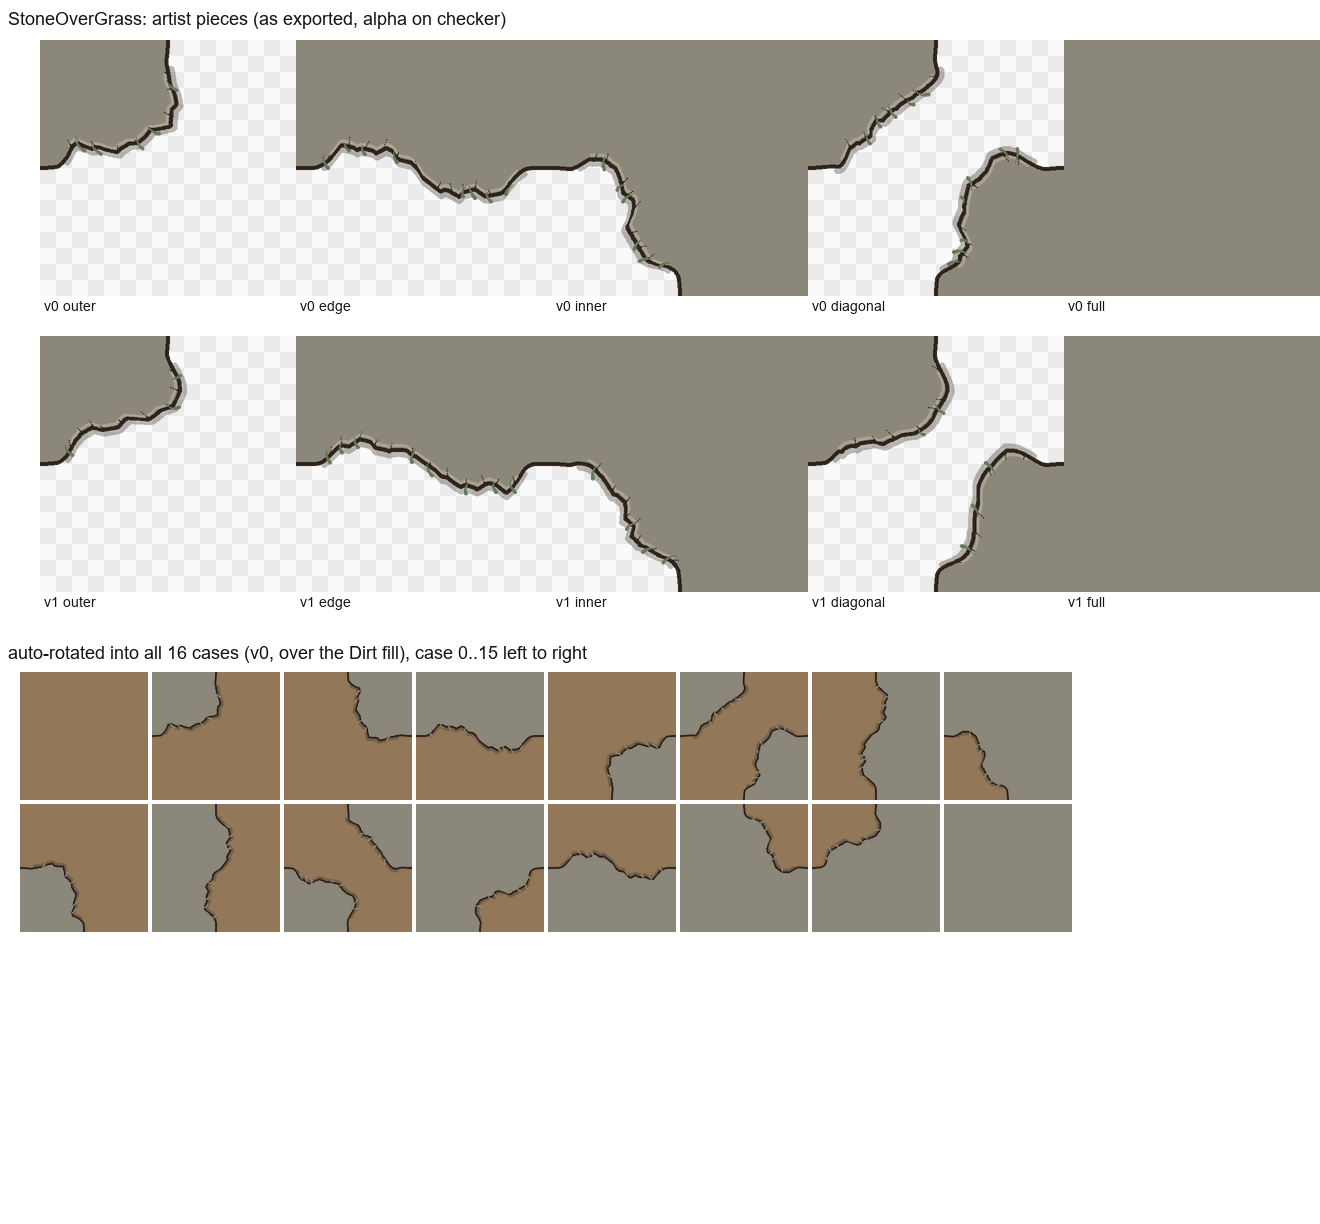
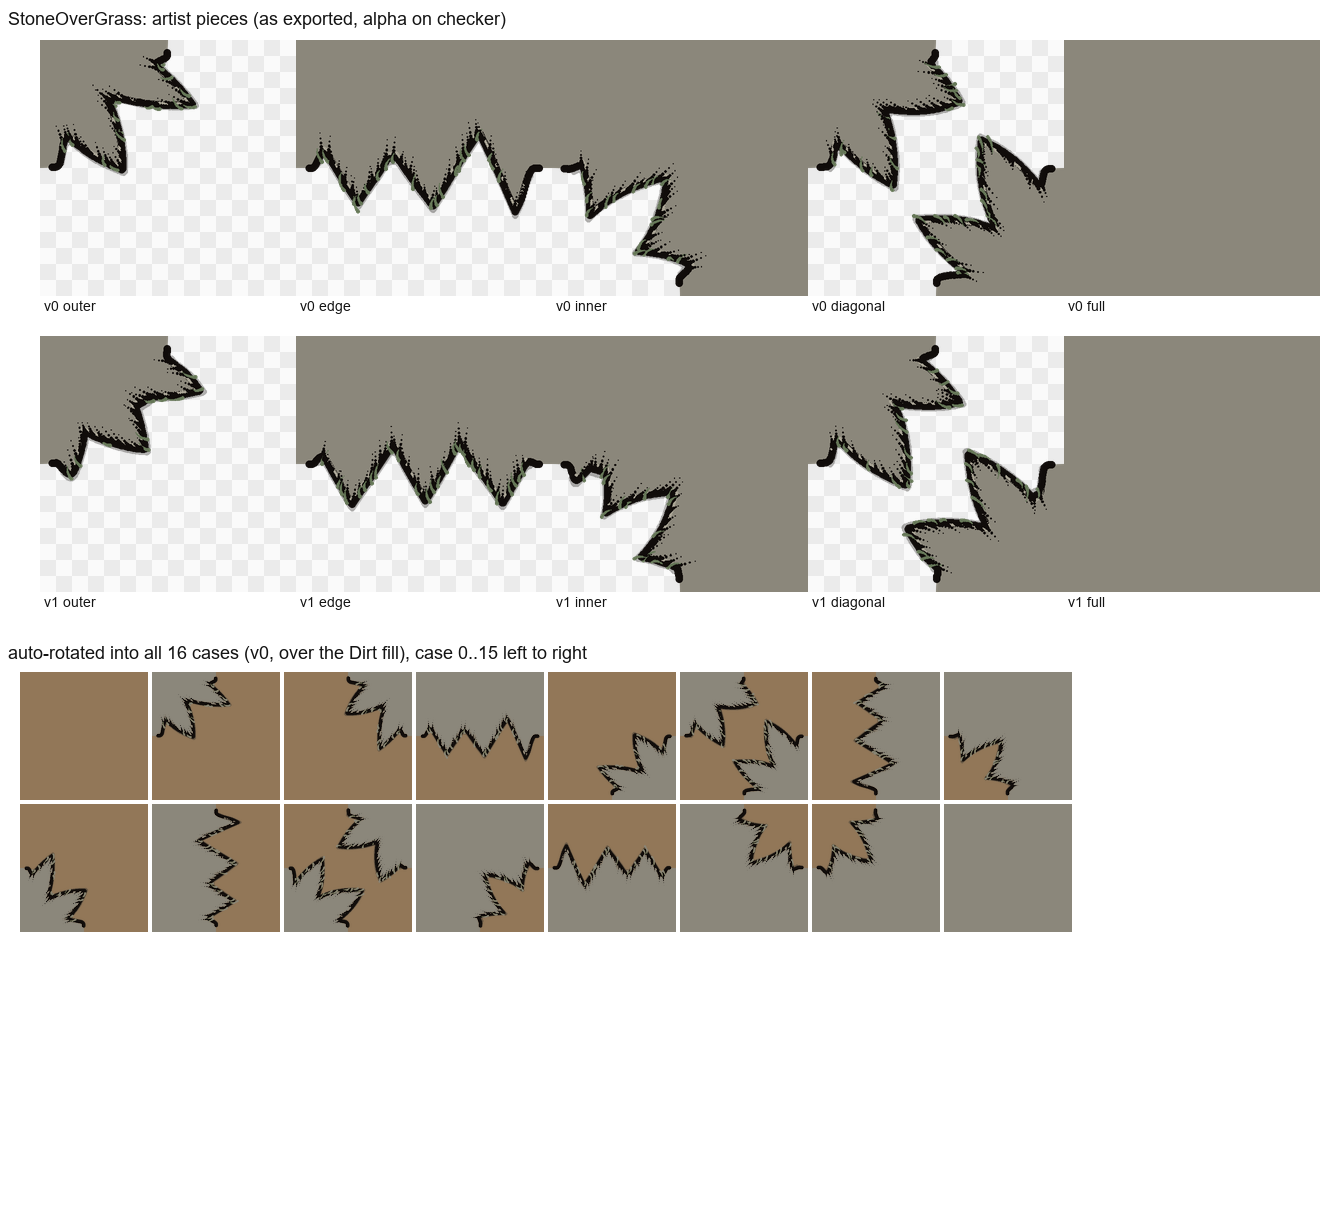
Terrain Edge Tiles v2 art: 2-3 big lobes per side, heavy ink outline + outward flicks (ink coverage ~4% per set, forest fixed); scatter places billboard cards facing -Z
Claude-Session: https://claude.ai/code/session_013ze2L3WACF4XQEpyQUBhmc

diff --git a/Tools/terrain_edge_mock/edge_tile_mock.py b/Tools/terrain_edge_mock/edge_tile_mock.py
@@ -23,7 +23,7 @@ CANVAS = CELL * SUPERSAMPLE
 CROSSING_STRAIGHT_PIXELS = 16
 SAFE_MARGIN = 8
 PIXELS_PER_METRE = 64
-INK = (46, 35, 27)
+INK = (16, 12, 10)
 
 DIRT, GRASS, FOREST, STONE = 0, 1, 2, 3
 BIOME_NAMES = {DIRT: "Dirt", GRASS: "Grass", FOREST: "Forest", STONE: "Stone"}
@@ -120,8 +120,8 @@ def segment_samples(segment, step):
 
 
 def crossing_window(side_distance):
-    """0 within the straight 16 px next to a side, 1 from 48 px in: the edge may only wobble where this is > 0."""
-    normalised = np.clip((np.asarray(side_distance) - CROSSING_STRAIGHT_PIXELS) / 32.0, 0.0, 1.0)
+    """0 within the straight 16 px next to a side, 1 from 32 px in: the edge may only wobble where this is > 0."""
+    normalised = np.clip((np.asarray(side_distance) - CROSSING_STRAIGHT_PIXELS) / 16.0, 0.0, 1.0)
     return normalised * normalised * (3.0 - 2.0 * normalised)
 
 
@@ -162,12 +162,12 @@ FILL_COLOURS = {
     STONE: [(139, 135, 123), (150, 146, 133), (126, 122, 111)],
 }
 
-TURF_STYLE = dict(clump_width=(8.0, 18.0), clump_height=(10.0, 32.0), clump_spacing=(14.0, 32.0),
-                  clump_baseline=14.0, ripple=1.5, bend=30.0, chipped=False)
-FOREST_STYLE = dict(clump_width=(10.0, 20.0), clump_height=(12.0, 28.0), clump_spacing=(18.0, 34.0),
-                    clump_baseline=14.0, ripple=1.5, bend=32.0, chipped=False)
-STONE_STYLE = dict(clump_width=(12.0, 26.0), clump_height=(5.0, 14.0), clump_spacing=(14.0, 30.0),
-                   clump_baseline=7.0, ripple=0.4, bend=24.0, chipped=True)
+TURF_STYLE = dict(clump_width=(14.0, 22.0), clump_height=(60.0, 80.0), clump_spacing=(60.0, 84.0),
+                  clump_baseline=30.0, ripple=1.0, bend=6.0, chipped=False)
+FOREST_STYLE = dict(clump_width=(14.0, 22.0), clump_height=(60.0, 80.0), clump_spacing=(60.0, 84.0),
+                    clump_baseline=30.0, ripple=1.0, bend=6.0, chipped=False)
+STONE_STYLE = dict(clump_width=(30.0, 46.0), clump_height=(56.0, 76.0), clump_spacing=(60.0, 84.0),
+                   clump_baseline=28.0, ripple=0.4, bend=6.0, chipped=True)
 LIP_STYLE = dict(clump_width=(6.0, 13.0), clump_height=(5.0, 15.0), clump_spacing=(10.0, 22.0),
                  clump_baseline=6.0, ripple=1.0, bend=4.0, chipped=False)
 
@@ -236,11 +236,33 @@ def draw_piece_strokes(stroke_layer, piece_name, profiles, set_definition, rando
                 shadow_layer = Image.new("RGBA", stroke_layer.size, (0, 0, 0, 0))
                 draw_tapered(ImageDraw.Draw(shadow_layer), shadow_band, 6.0, 6.0, INK + (80,))
                 stroke_layer.alpha_composite(shadow_layer)
-            outline = [(point[0], point[1]) for point in boundary_points]
-            draw_tapered(draw, outline, 3.4, 3.4, INK)
+            outline = [(point[0], point[1]) for point in boundary_points if point[4] > 12.0]
+            draw_tapered(draw, outline, 7.0, 7.0, INK)
             highlight = [(point[0] - point[2] * 4.5, point[1] - point[3] * 4.5) for point in boundary_points
                          if float(crossing_window(point[4])) > 0.6]
             draw_tapered(draw, highlight, 2.4, 2.4, shade(upper_colours[1], 1.12)) if highlight else None
+
+        if stroke_kind in ("turf", "forest"):
+            run_start = None
+            run_length = 0
+            for point_index, boundary_point in enumerate(boundary_points):
+                inked = float(crossing_window(boundary_point[4])) > 0.15 and boundary_point[4] > 10.0
+                if inked and run_start is None:
+                    run_start = point_index
+                    run_length = int(random_generator.uniform(40, 110))
+                if run_start is not None and (not inked or point_index - run_start >= run_length):
+                    run_points = [(point[0], point[1]) for point in boundary_points[run_start:point_index]]
+                    if len(run_points) > 2 and inside_safe_margin(run_points):
+                        draw_tapered(draw, run_points, 6.5 if stroke_kind == "forest" else 5.0, 3.2 if stroke_kind == "forest" else 2.6, INK)
+                    run_start = None if not inked else point_index + int(random_generator.uniform(5, 12))
+                    if run_start is not None and run_start >= len(boundary_points):
+                        run_start = None
+                    if run_start is not None:
+                        run_length = int(random_generator.uniform(40, 110))
+            if run_start is not None:
+                run_points = [(point[0], point[1]) for point in boundary_points[run_start:]]
+                if len(run_points) > 2 and inside_safe_margin(run_points):
+                    draw_tapered(draw, run_points, 6.5 if stroke_kind == "forest" else 5.0, 3.2 if stroke_kind == "forest" else 2.6, INK)
 
         position = random_generator.uniform(4, 12)
         while position < len(boundary_points):
@@ -251,18 +273,18 @@ def draw_piece_strokes(stroke_layer, piece_name, profiles, set_definition, rando
                 continue
             if stroke_kind in ("turf", "forest"):
                 lobe_height = float(profile.evaluate(boundary_points_parameter[int(position)]))
-                if lobe_height < 2.0 and random_generator.random() < 0.75:
+                if lobe_height < 6.0 and random_generator.random() < (0.5 if stroke_kind == "forest" else 0.8):
                     position += random_generator.uniform(3, 6)
                     continue
                 root_depth = random_generator.uniform(3, 9)
-                length = random_generator.uniform(9, 24) if stroke_kind == "turf" else random_generator.uniform(10, 26)
+                length = random_generator.uniform(14, 30)
                 curl = (1 if math.sin(boundary_points_parameter[int(position)] / 23.0) > 0 else -1) * random_generator.uniform(4, 13)
                 root = (point_x - normal_x * root_depth, point_y - normal_y * root_depth)
                 tip = (point_x + normal_x * length + tangent_x * curl, point_y + normal_y * length + tangent_y * curl)
                 control = ((root[0] + tip[0]) / 2 + tangent_x * curl * 0.6, (root[1] + tip[1]) / 2 + tangent_y * curl * 0.6)
                 points = quadratic_points(root, control, tip, 14)
                 if inside_safe_margin(points):
-                    draw_tapered(draw, points, 3.8 if stroke_kind == "turf" else 3.2, 0.7, INK)
+                    draw_tapered(draw, points, random_generator.uniform(5.0, 7.0) if stroke_kind == "turf" else random_generator.uniform(6.0, 8.0), 0.8, INK)
                 if random_generator.random() < 0.55:
                     hair_root = (point_x - normal_x * random_generator.uniform(6, 15),
                                  point_y - normal_y * random_generator.uniform(6, 15))
@@ -281,14 +303,14 @@ def draw_piece_strokes(stroke_layer, piece_name, profiles, set_definition, rando
                     tuft_points = quadratic_points(tuft_root, tuft_root, tuft_tip, 8)
                     if inside_safe_margin(tuft_points):
                         draw_tapered(draw, tuft_points, 4.4, 1.2, shade(upper_colours[1], 1.25))
-                position += random_generator.uniform(4, 10) if stroke_kind == "turf" else random_generator.uniform(6, 12)
+                position += random_generator.uniform(3, 6) if stroke_kind == "turf" else random_generator.uniform(3, 7)
             else:
-                chip_length = random_generator.uniform(4, 10)
+                chip_length = random_generator.uniform(10, 22)
                 chip_tip = (point_x - normal_x * chip_length + tangent_x * random_generator.uniform(-4, 4),
                             point_y - normal_y * chip_length + tangent_y * random_generator.uniform(-4, 4))
                 chip_points = quadratic_points((point_x, point_y), (point_x, point_y), chip_tip, 8)
                 if inside_safe_margin(chip_points):
-                    draw_tapered(draw, chip_points, 2.0, 0.6, INK)
+                    draw_tapered(draw, chip_points, 6.0, 0.8, INK)
                 if stroke_kind == "stone_mossy" and random_generator.random() < 0.6:
                     moss_root = (point_x + normal_x * random_generator.uniform(4, 9), point_y + normal_y * random_generator.uniform(4, 9))
                     moss_tip = (point_x - normal_x * random_generator.uniform(2, 7) + tangent_x * random_generator.uniform(-6, 6),
@@ -297,7 +319,7 @@ def draw_piece_strokes(stroke_layer, piece_name, profiles, set_definition, rando
                                                                (moss_root[1] + moss_tip[1]) / 2 + tangent_y * 3), moss_tip, 10)
                     if inside_safe_margin(moss_points):
                         draw_tapered(draw, moss_points, 3.2, 0.8, FILL_COLOURS[GRASS][2])
-                position += random_generator.uniform(10, 24)
+                position += random_generator.uniform(3, 7)
 
 
 # ---------------------------------------------------------------------------------------------------------

diff --git a/Assets/_Scripts/Editor/Terrain/TerrainScatterGenerator.cs b/Assets/_Scripts/Editor/Terrain/TerrainScatterGenerator.cs
@@ -253,6 +253,11 @@ public static class TerrainScatterGenerator
         return doomed.Count;
     }
 
+    public static bool IsFlatBillboardCard(GameObject prefab)
+    {
+        return prefab != null && prefab.GetComponentInChildren<VisualBillboardAuthoring>(true) != null;
+    }
+
     private static GameObject InstantiateScatterInstance(Transform scatterParent, GameObject prefab, TerrainScatterPlacement placement, TerrainScatterRuleData ruleData)
     {
         GameObject instance = PrefabUtility.InstantiatePrefab(prefab, scatterParent.gameObject.scene) as GameObject;
@@ -262,8 +267,17 @@ public static class TerrainScatterGenerator
         }
         Vector3 prefabScale = prefab.transform.localScale;
         instance.transform.SetParent(scatterParent, true);
-        Quaternion yaw = Quaternion.Euler(0f, placement.yawDegrees, 0f);
-        Quaternion rotation = ruleData.alignToNormal ? Quaternion.FromToRotation(Vector3.up, placement.normal) * yaw : yaw;
+        Quaternion rotation;
+        if (IsFlatBillboardCard(prefab))
+        {
+            // 2D cards (trees) are placed upright facing -Z, toward the fixed game camera, like units; any yaw or tilt shows them edge-on.
+            rotation = Quaternion.identity;
+        }
+        else
+        {
+            Quaternion yaw = Quaternion.Euler(0f, placement.yawDegrees, 0f);
+            rotation = ruleData.alignToNormal ? Quaternion.FromToRotation(Vector3.up, placement.normal) * yaw : yaw;
+        }
         instance.transform.SetPositionAndRotation(placement.position, rotation);
         instance.transform.localScale = prefabScale * placement.scale;
         instance.name = prefab.name;
